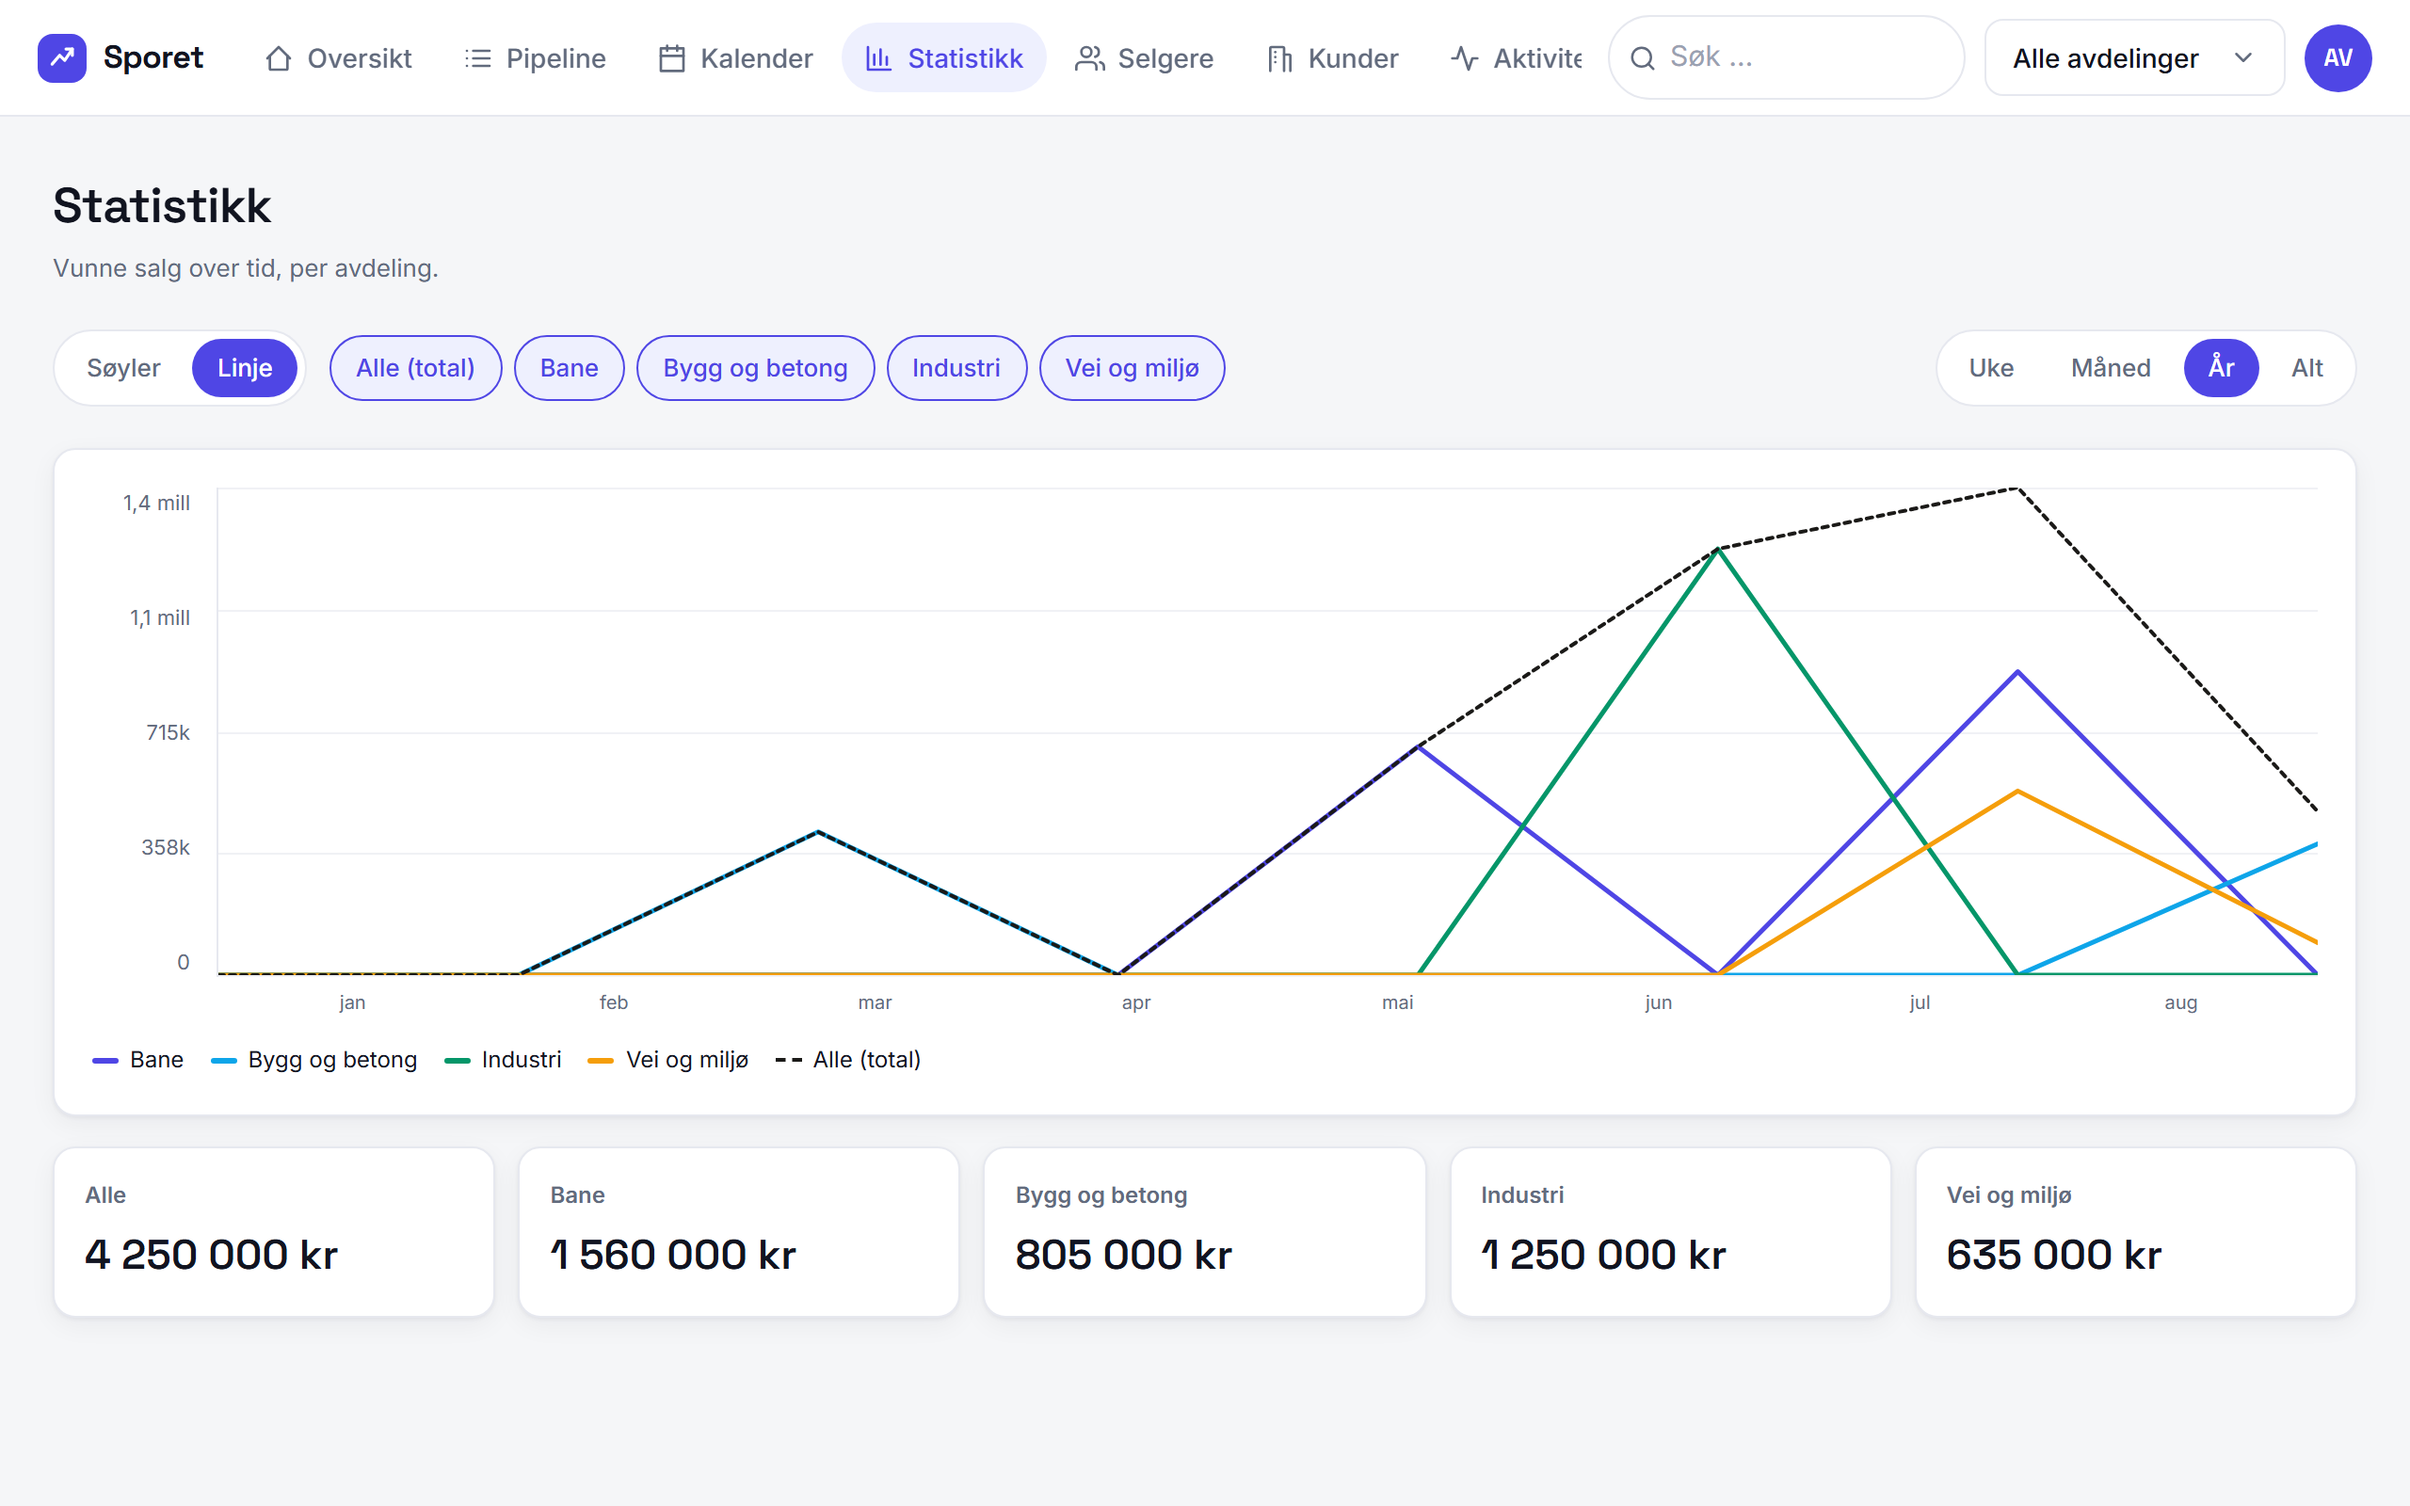
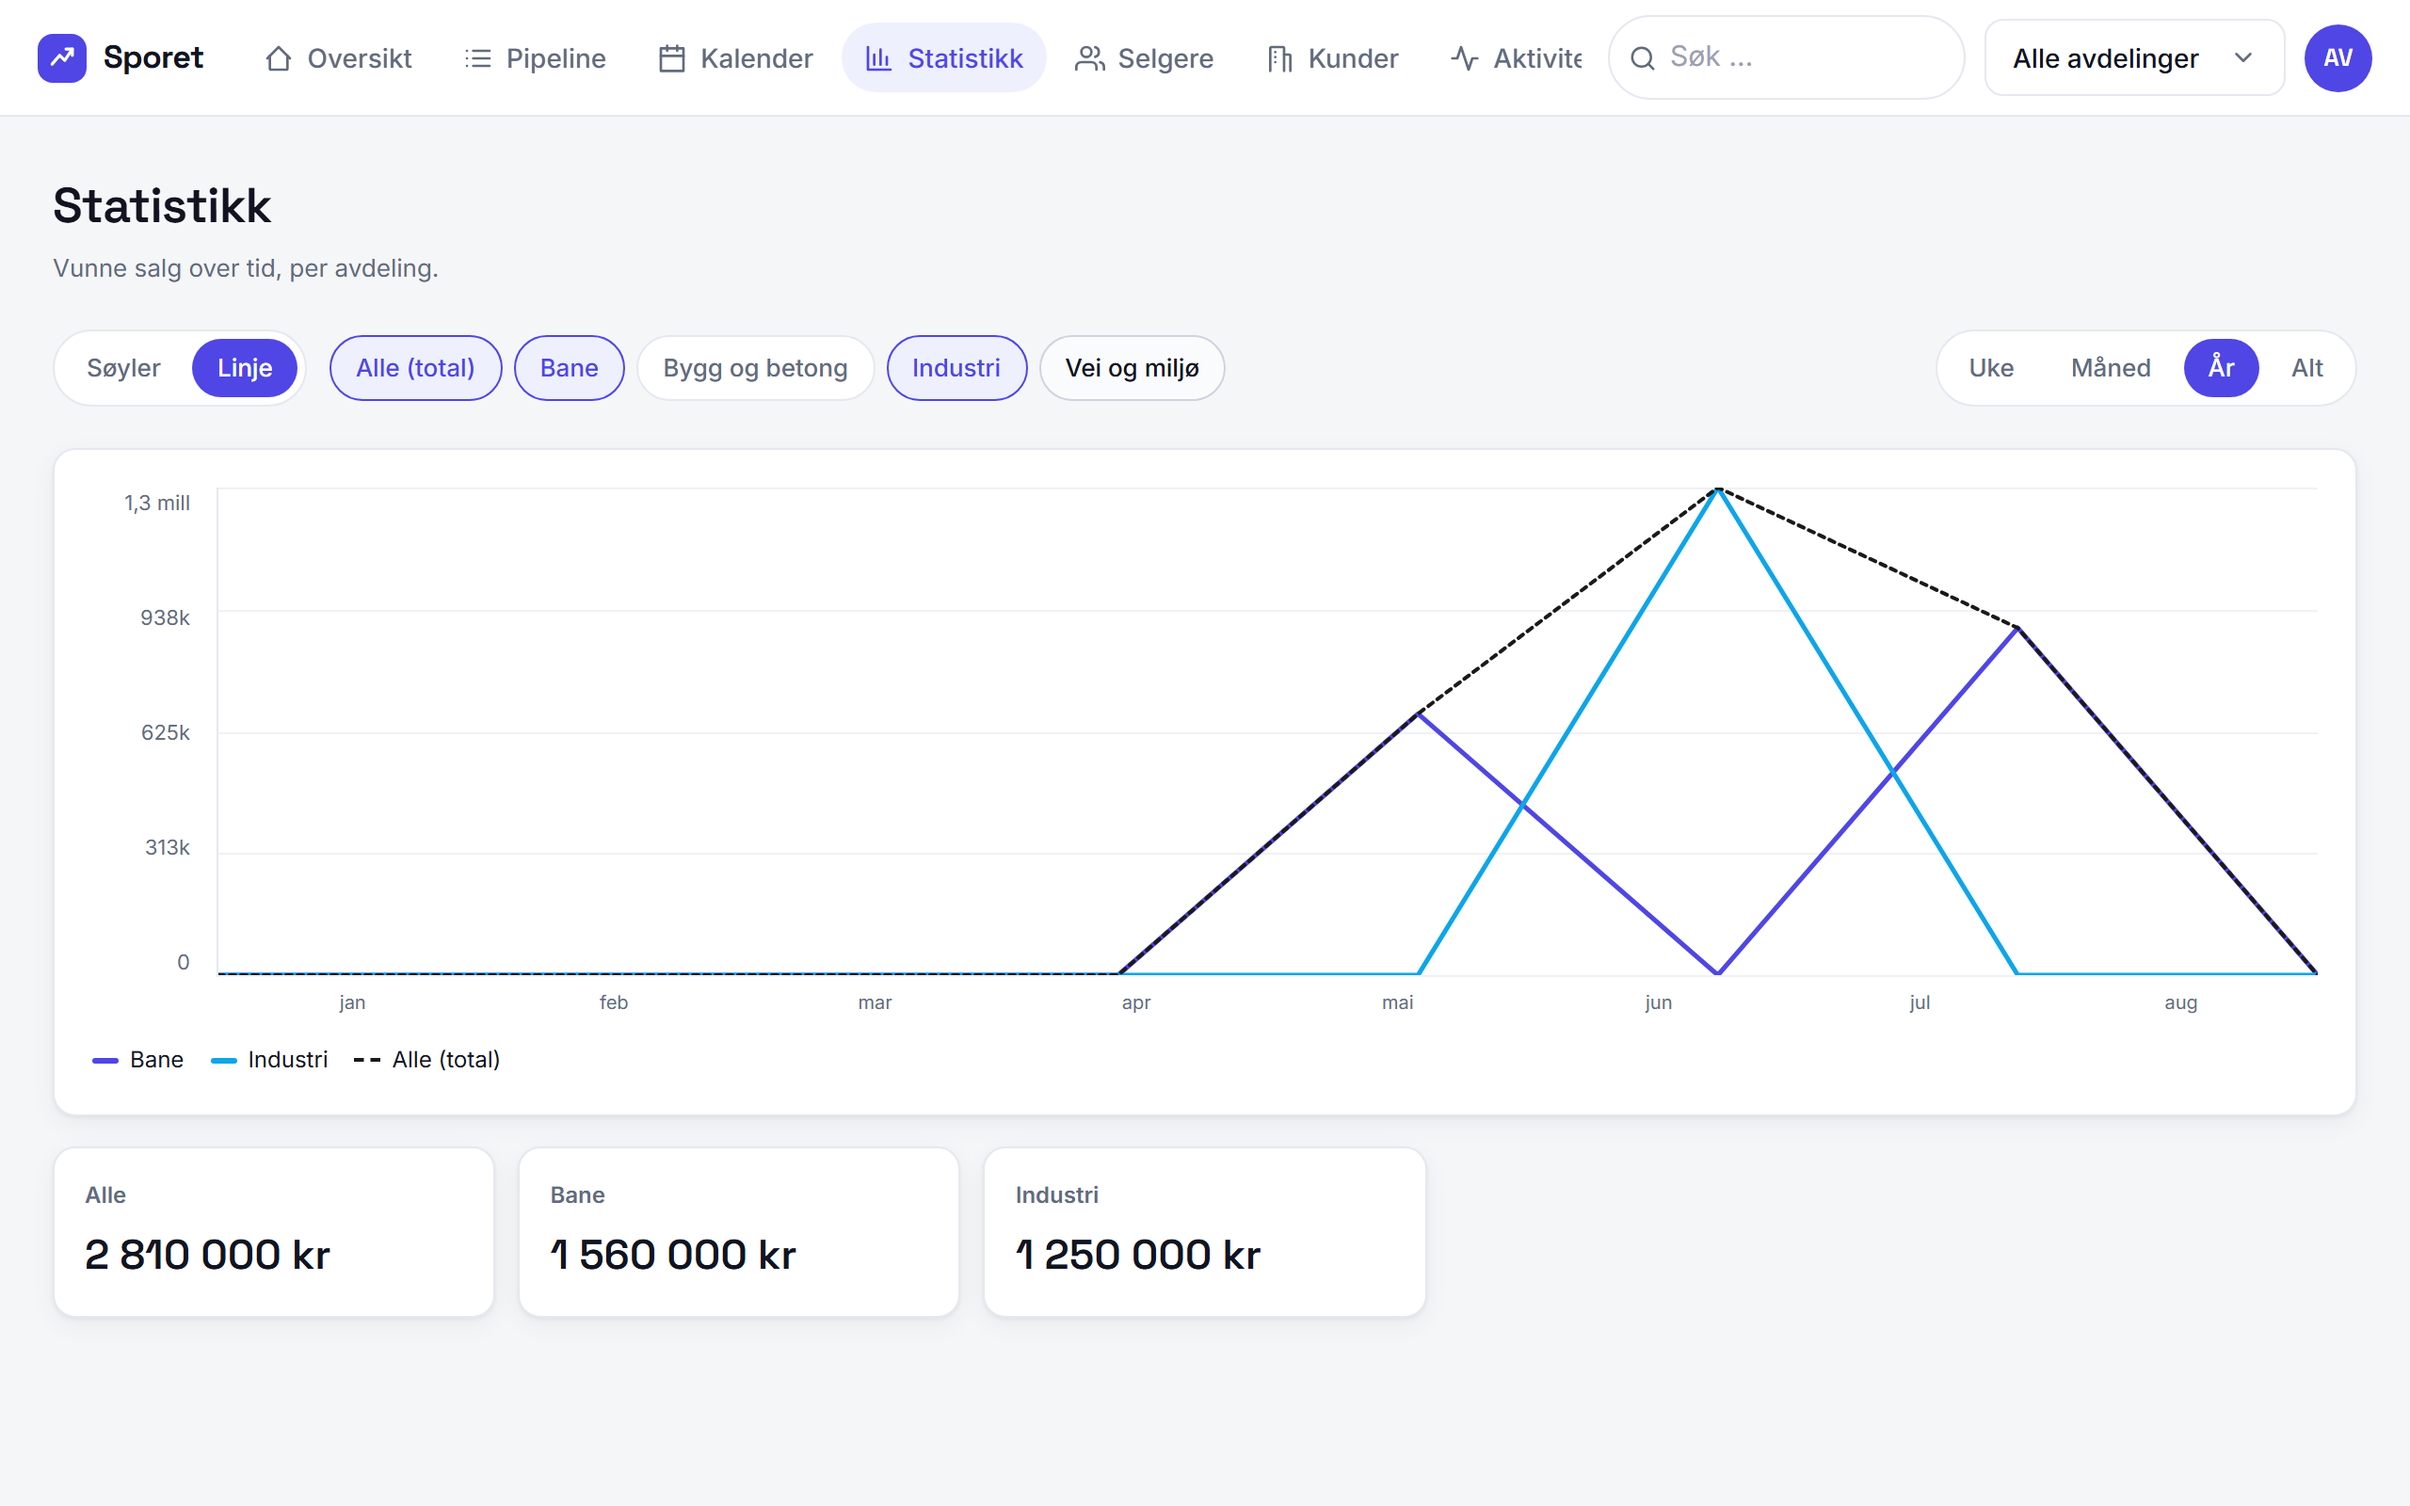
Fiks Logg ut, profilmeny-pill, hover-effekter, ryddigere statistikk-bilde, pris 0-20 = 900 kr

diff --git a/src/components/TopNav.tsx b/src/components/TopNav.tsx
@@ -7,7 +7,7 @@ import { Logo } from "./Logo";
 import { Icon } from "./Icon";
 import { Dropdown } from "./Dropdown";
 import { useStore } from "@/store/Store";
-import { logout } from "@/app/(auth)/actions";
+import { createClient } from "@/lib/supabase/client";
 import { initials } from "@/lib/format";
 import { type FeatureKey } from "@/lib/constants";
 
@@ -42,7 +42,9 @@ export function TopNav() {
   const pathname = usePathname();
   const router = useRouter();
   const [menuOpen, setMenuOpen] = useState(false);
+  const [loggingOut, setLoggingOut] = useState(false);
   const menuRef = useRef<HTMLDivElement>(null);
+  const supabase = useMemo(() => createClient(), []);
 
   const tabs = TABS.filter(
     (t) => !t.feature || org.features[t.feature]
@@ -114,6 +116,8 @@ export function TopNav() {
               <Link
                 key={t.id}
                 href={`/app/${t.id}`}
+                className="nav-tab"
+                data-active={active}
                 style={{
                   display: "inline-flex",
                   alignItems: "center",
@@ -191,7 +195,8 @@ export function TopNav() {
                   position: "absolute",
                   top: "calc(100% + 8px)",
                   right: 0,
-                  width: 220,
+                  width: 280,
+                  maxWidth: "calc(100vw - 24px)",
                   background: "var(--surface)",
                   border: "1px solid var(--border)",
                   borderRadius: 12,
@@ -200,19 +205,43 @@ export function TopNav() {
                   zIndex: 60,
                 }}
               >
-                <div style={{ padding: "8px 10px 10px" }}>
-                  <div style={{ fontWeight: 600, fontSize: 14 }}>
+                <div style={{ padding: "8px 10px 10px", minWidth: 0 }}>
+                  <div
+                    style={{
+                      fontWeight: 600,
+                      fontSize: 14,
+                      overflow: "hidden",
+                      textOverflow: "ellipsis",
+                      whiteSpace: "nowrap",
+                    }}
+                  >
                     {profile.full_name}
                   </div>
-                  <div style={{ fontSize: 12, color: "var(--muted)" }}>
+                  <div
+                    style={{
+                      fontSize: 12,
+                      color: "var(--muted)",
+                      overflow: "hidden",
+                      textOverflow: "ellipsis",
+                      whiteSpace: "nowrap",
+                    }}
+                  >
                     {profile.email}
                   </div>
                   <div
-                    className="pill"
                     style={{
-                      marginTop: 6,
+                      marginTop: 8,
+                      display: "inline-block",
+                      maxWidth: "100%",
+                      padding: "4px 10px",
+                      borderRadius: 999,
+                      fontSize: 11,
+                      fontWeight: 600,
+                      lineHeight: 1.4,
                       background: "var(--primary-050)",
                       color: "var(--primary)",
+                      whiteSpace: "normal",
+                      wordBreak: "break-word",
                     }}
                   >
                     {profile.role === "admin" ? "Administrator" : "Selger"} ·{" "}
@@ -222,16 +251,33 @@ export function TopNav() {
                 <div style={{ height: 1, background: "var(--border)", margin: "2px 0 6px" }} />
                 <Link
                   href="/app/innstillinger"
+                  className="menu-item"
                   style={menuItemStyle}
                   onClick={() => setMenuOpen(false)}
                 >
                   <Icon name="settings" size={16} /> Innstillinger
                 </Link>
-                <form action={logout}>
-                  <button type="submit" style={{ ...menuItemStyle, width: "100%", border: "none", background: "transparent" }}>
-                    <Icon name="logout" size={16} /> Logg ut
-                  </button>
-                </form>
+                <button
+                  type="button"
+                  className="menu-item"
+                  disabled={loggingOut}
+                  onClick={async () => {
+                    setLoggingOut(true);
+                    // Sign out client-side (clears cookies), then hard-navigate.
+                    await supabase.auth.signOut({ scope: "global" });
+                    window.location.assign("/login");
+                  }}
+                  style={{
+                    ...menuItemStyle,
+                    width: "100%",
+                    border: "none",
+                    background: "transparent",
+                    opacity: loggingOut ? 0.6 : 1,
+                  }}
+                >
+                  <Icon name="logout" size={16} />{" "}
+                  {loggingOut ? "Logger ut …" : "Logg ut"}
+                </button>
               </div>
             )}
           </div>

diff --git a/src/app/globals.css b/src/app/globals.css
@@ -279,6 +279,76 @@ button {
   animation: slideIn 0.18s ease;
 }
 
+/* ============================================================
+   Hover / interaction feedback — applied app-wide
+   ============================================================ */
+button,
+[role="button"],
+a {
+  transition: background 0.14s ease, border-color 0.14s ease,
+    color 0.14s ease, box-shadow 0.14s ease, transform 0.14s ease,
+    opacity 0.14s ease;
+}
+
+/* Primary buttons lift slightly */
+.btn-primary:hover:not(:disabled) {
+  box-shadow: 0 6px 16px rgba(79, 70, 229, 0.28);
+  transform: translateY(-1px);
+}
+.btn:active:not(:disabled) {
+  transform: translateY(0);
+}
+
+/* Chips */
+.chip:hover:not([data-active="true"]) {
+  background: var(--row-hover);
+  border-color: #cfd3de;
+  color: var(--text);
+}
+.chip[data-active="true"]:hover {
+  background: #e4e7fd;
+}
+
+/* Period pill groups */
+.pillgroup button:hover:not([data-active="true"]) {
+  background: var(--bg);
+  color: var(--text);
+}
+
+/* Cards that are clickable */
+.stat-card:hover {
+  box-shadow: 0 8px 22px rgba(17, 20, 32, 0.1) !important;
+  transform: translateY(-2px);
+}
+
+/* Profile / dropdown menu items */
+.menu-item:hover {
+  background: var(--primary-050) !important;
+  color: var(--primary) !important;
+}
+
+/* Top-nav tabs */
+.nav-tab:hover {
+  background: var(--bg) !important;
+  color: var(--text) !important;
+}
+.nav-tab[data-active="true"]:hover {
+  background: #e4e7fd !important;
+  color: var(--primary) !important;
+}
+
+/* Kanban cards */
+.deal-card:hover {
+  border-color: #cfd3de !important;
+  box-shadow: 0 6px 18px rgba(17, 20, 32, 0.1) !important;
+  transform: translateY(-1px);
+}
+
+/* Inputs */
+.field-input:hover:not(:focus) {
+  border-color: #cfd3de;
+}
+
 /* Landing nav links */
 .land-navlink {
   font-size: 15px;

diff --git a/src/app/page.tsx b/src/app/page.tsx
@@ -32,7 +32,7 @@ const BASE_FEATURES = [
 
 const PLAN_DEFS = [
   { users: "0–10 brukere", price: "500", popular: false, extra: "Kalender og oppfølging" },
-  { users: "0–20 brukere", price: "850", popular: true, extra: "Avdelinger og selgeroversikt" },
+  { users: "0–20 brukere", price: "900", popular: true, extra: "Avdelinger og selgeroversikt" },
   { users: "0–50 brukere", price: "2 000", popular: false, extra: "Eksport og aktivitetslogg" },
   { users: "0–100 brukere", price: "3 000", popular: false, extra: "Prioritert support" },
 ];

diff --git a/src/components/pipeline/DealCard.tsx b/src/components/pipeline/DealCard.tsx
@@ -30,6 +30,7 @@ export function DealCard({
   return (
     <div
       ref={setNodeRef}
+      className="deal-card"
       style={{
         transform: CSS.Translate.toString(transform),
         opacity: isDragging ? 0.4 : 1,
